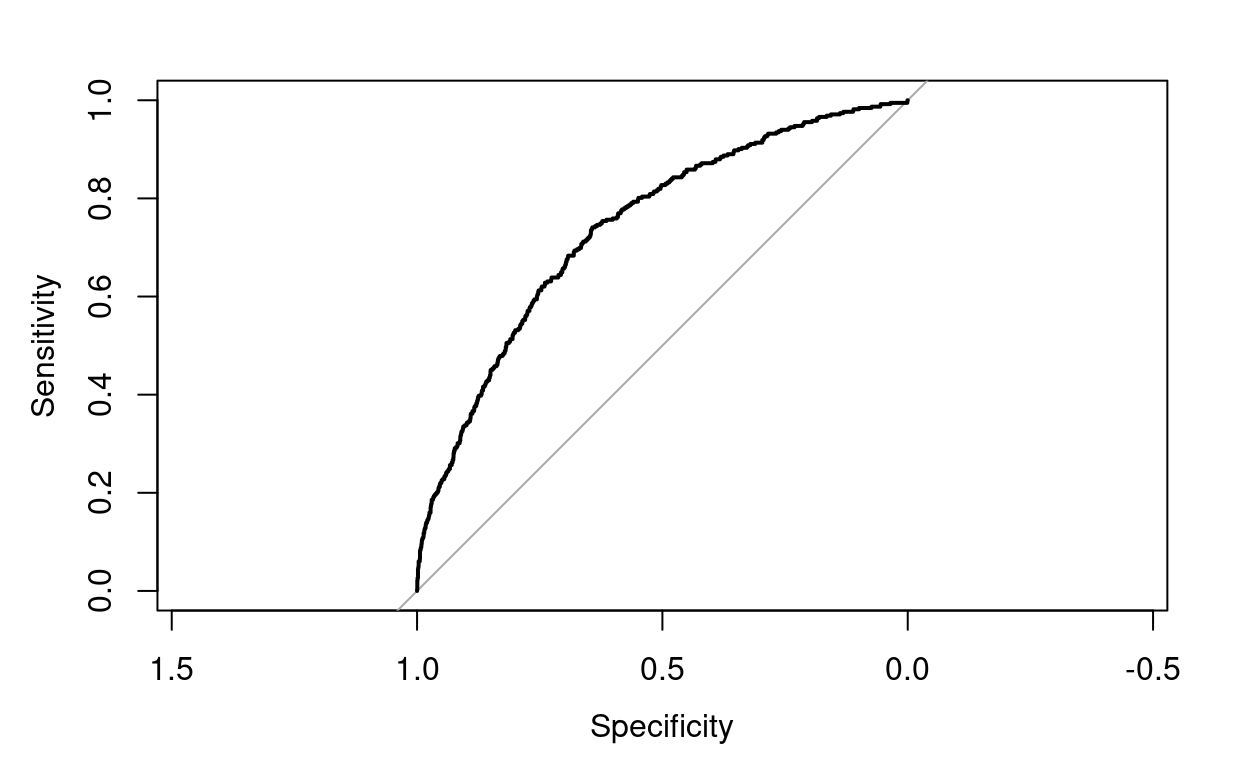
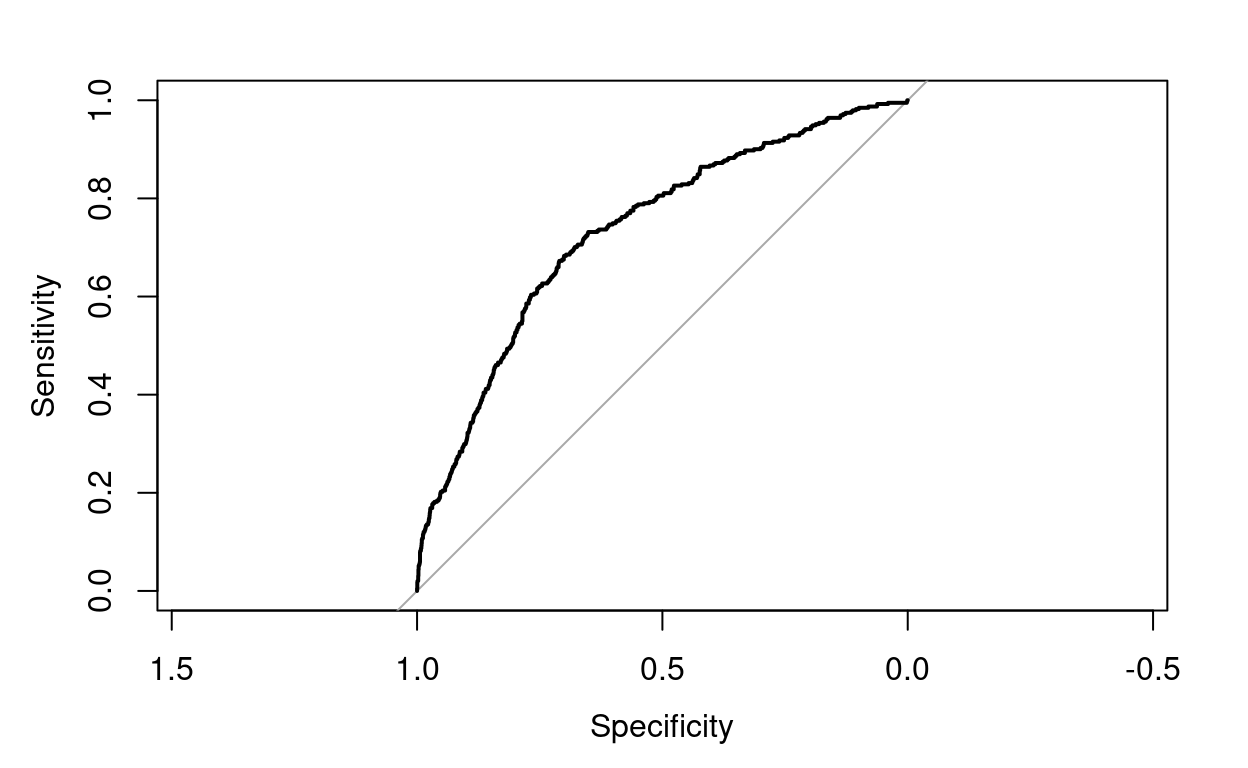
latest changes

diff --git a/_site/sta631.html b/_site/sta631.html
@@ -2259,29 +2259,29 @@ Predict variable (desired target): • 10 year risk of coronary heart disease CH
 </div>
 <div class="layout-chunk" data-layout="l-body">
 <pre><code>                Estimate Std. Error z value Pr(&gt;|z|)
-(Intercept)        -8.33       0.88   -9.47     0.00
-male1               0.60       0.13    4.58     0.00
+(Intercept)        -8.48       0.84  -10.13     0.00
+male1               0.64       0.13    4.92     0.00
 age                 0.06       0.01    7.76     0.00
-education          -0.07       0.06   -1.20     0.23
-currentSmoker1      0.25       0.19    1.31     0.19
-cigsPerDay          0.01       0.01    1.78     0.07
-BPMeds              0.15       0.28    0.54     0.59
-prevalentStroke     1.27       0.61    2.09     0.04
-prevalentHyp1       0.21       0.17    1.28     0.20
-diabetes1           0.01       0.38    0.02     0.98
-totChol             0.00       0.00    2.55     0.01
-sysBP               0.02       0.00    3.76     0.00
-diaBP               0.00       0.01   -0.60     0.55
-BMI                 0.01       0.02    0.74     0.46
-heartRate          -0.01       0.01   -2.31     0.02
-glucose             0.01       0.00    2.93     0.00</code></pre>
+education          -0.02       0.06   -0.37     0.71
+currentSmoker1     -0.02       0.19   -0.10     0.92
+cigsPerDay          0.02       0.01    2.52     0.01
+BPMeds              0.33       0.27    1.21     0.22
+prevalentStroke    -0.10       0.71   -0.15     0.88
+prevalentHyp1       0.09       0.17    0.54     0.59
+diabetes1          -0.06       0.37   -0.16     0.87
+totChol             0.00       0.00    1.27     0.21
+sysBP               0.02       0.00    4.05     0.00
+diaBP              -0.01       0.01   -1.02     0.31
+BMI                 0.01       0.02    0.70     0.48
+heartRate           0.00       0.00   -0.03     0.98
+glucose             0.01       0.00    2.84     0.00</code></pre>
 </div>
 <p><strong>From the model above, the variables that significantly effect the probability of a patient having CHD are: Sex, Age, Cigs per day, systolic blood pressure, and glucose levels.</strong></p>
 <div class="layout-chunk" data-layout="l-body">
 <pre><code>         TenYearCHD
 log.preds    0    1
-   CHD      15   38
-   No CHD 2163  343</code></pre>
+   CHD      16   32
+   No CHD 2152  359</code></pre>
 </div>
 <div class="layout-chunk" data-layout="l-body">
 <pre><code>Training Error Rate: 14.54 %</code></pre>
@@ -2289,12 +2289,12 @@ log.preds    0    1
 <p>Next we remove the insignificant variables and retain the model</p>
 <div class="layout-chunk" data-layout="l-body">
 <pre><code>            Estimate Std. Error z value Pr(&gt;|z|)
-(Intercept)    -8.90       0.51  -17.49        0
-male1           0.59       0.13    4.58        0
-age             0.07       0.01    8.88        0
-cigsPerDay      0.02       0.01    3.76        0
-sysBP           0.02       0.00    7.20        0
-glucose         0.01       0.00    3.83        0</code></pre>
+(Intercept)    -8.54       0.50  -17.12        0
+male1           0.60       0.12    4.77        0
+age             0.06       0.01    8.56        0
+cigsPerDay      0.02       0.00    3.73        0
+sysBP           0.02       0.00    7.01        0
+glucose         0.01       0.00    3.75        0</code></pre>
 </div>
 <h3 id="observations-1">Observations</h3>
 <div class="layout-chunk" data-layout="l-body">
@@ -2315,8 +2315,8 @@ glucose         0.01       0.00    3.83        0</code></pre>
 <div class="layout-chunk" data-layout="l-body">
 <pre><code>         TenYearCHD
 log.preds    0    1
-   CHD      18   34
-   No CHD 2160  347</code></pre>
+   CHD      17   32
+   No CHD 2151  359</code></pre>
 </div>
 <div class="layout-chunk" data-layout="l-body">
 <pre><code>Training Error Rate: 14.81 %</code></pre>
@@ -2328,8 +2328,8 @@ log.preds    0    1
 Call:
 roc.default(response = framingham_train$TenYearCHD, predictor = log.fit$fitted.values,     plot = TRUE)
 
-Data: log.fit$fitted.values in 2179 controls (framingham_train$TenYearCHD 0) &lt; 382 cases (framingham_train$TenYearCHD 1).
-Area under the curve: 0.7415</code></pre>
+Data: log.fit$fitted.values in 2170 controls (framingham_train$TenYearCHD 0) &lt; 391 cases (framingham_train$TenYearCHD 1).
+Area under the curve: 0.7331</code></pre>
 </div>
 <h3 id="testing-the-model">Testing the model</h3>
 <div class="layout-chunk" data-layout="l-body">
@@ -2338,8 +2338,8 @@ Area under the curve: 0.7415</code></pre>
 Call:
 roc.default(response = framingham_test$TenYearCHD, predictor = log.fit$fitted.values,     plot = TRUE)
 
-Data: log.fit$fitted.values in 922 controls (framingham_test$TenYearCHD 0) &lt; 175 cases (framingham_test$TenYearCHD 1).
-Area under the curve: 0.7222</code></pre>
+Data: log.fit$fitted.values in 931 controls (framingham_test$TenYearCHD 0) &lt; 166 cases (framingham_test$TenYearCHD 1).
+Area under the curve: 0.7419</code></pre>
 </div>
 <h3 id="logistic-regression-equation">Logistic regression equation</h3>
 <p>P=eβ0+β1X1/1+eβ0+β1X1P=eβ0+β1X1/1+eβ0+β1X1
